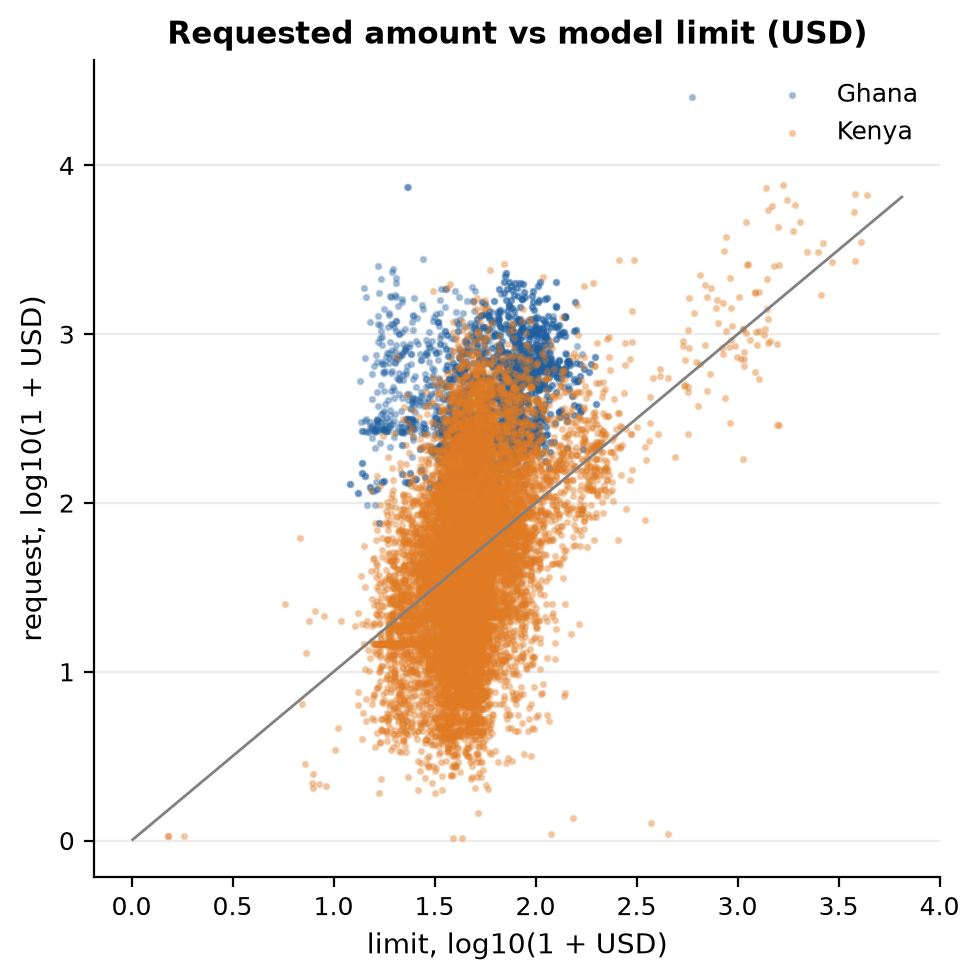
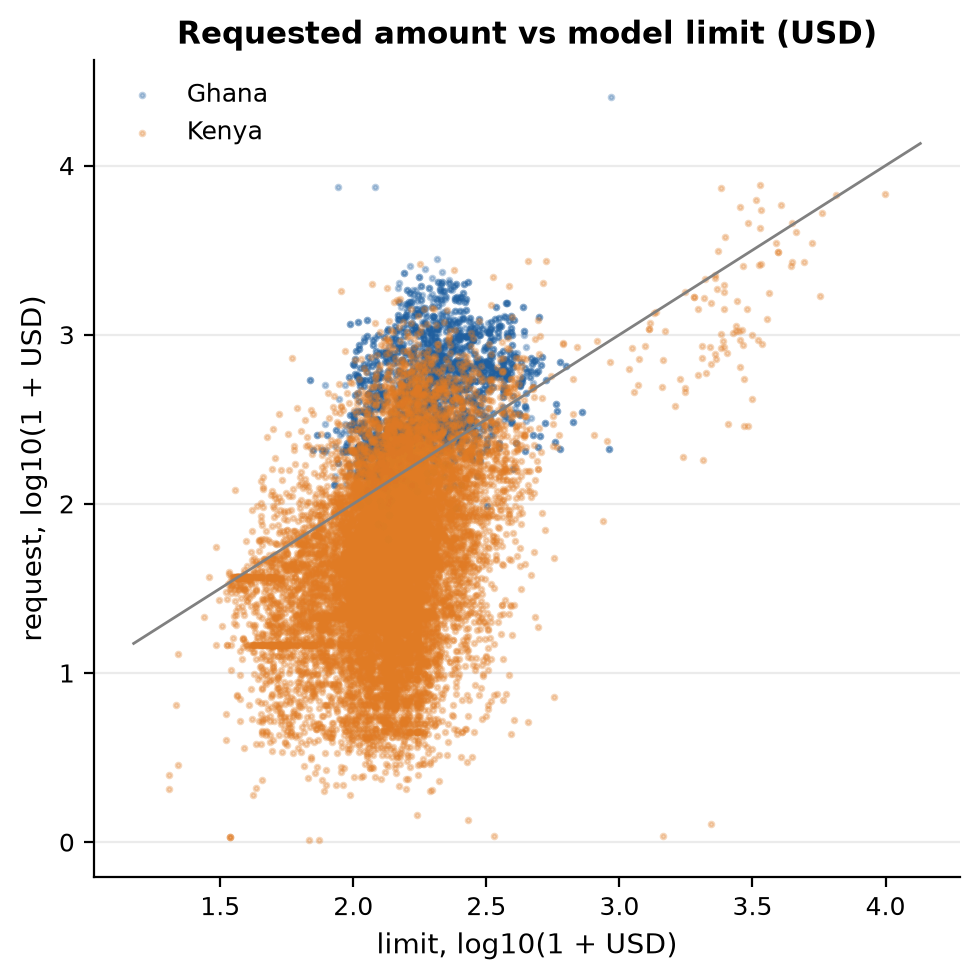
P3: switch limit rule to 85th-quantile LightGBM cap (D-30, #53)

diff --git a/scripts/make_figures.py b/scripts/make_figures.py
@@ -269,12 +269,12 @@ def main() -> None:
     summ.to_csv(C.TABLES / "product_decisions_by_country.csv", index=False)
     reg.add(plot_decision_mix(scores), "app_decision_mix", "8. The product in use",
             "Share of approve / limit / starter / decline on Test applications, by country.",
-            "What the deployed rule would do: in Ghana nothing is fully approved under the typical-amount limit, a sign the Kenyan model does not transfer.")
+            "With the 85th-quantile limit cap (D-30, #53), most Kenyan requests are approved in full (<=25% capped), while Ghana remains mostly capped and 100% flagged for review.")
     reg.add(plot_score_distribution(scores, thr), "app_score_distribution", "8. The product in use",
             "Calibrated P(default) on Test applications, by country, with the threshold.", "Ghana scores sit higher and wider than Kenya's.")
     reg.add(plot_limit_vs_request(scores), "app_limit_vs_request", "8. The product in use",
-            "Requested amount vs model limit (USD) for approved or limited applications.",
-            "The limit model predicts the typical amount, so about half of requests are cut; a cap should be a high quantile (#53).")
+            "Requested amount vs 85th-quantile model limit cap (USD) for approved or limited applications.",
+            "Using LightGBM quantile regression (alpha=0.85, D-30) acts as an upper cap so most good Kenyan borrowers stay under it while extreme requests are still bounded.")
     reasons = scores["top_3_reasons"].dropna().explode().value_counts()
     reg.add(plot_counts(reasons, "Reasons given (1,500 sampled Test applications)", "times given"), "app_reason_frequency",
             "8. The product in use", "How often each plain-language reason appears.",

diff --git a/tests/test_serving.py b/tests/test_serving.py
@@ -158,3 +158,26 @@ def test_borrower_reasons_reword_lender_and_drop_filler() -> None:
     shown = borrower_reasons([REASON_TEMPLATES["duration"][0], lender, FALLBACK_REASON])
     assert lender not in shown and FALLBACK_REASON not in shown
     assert len(shown) == 2 and "product" in shown[1]
+
+
+def test_quantile_limit_cap_exceeds_mean_limit_and_cuts_few_requests(synthetic_features) -> None:
+    """D-30 (#53): an 85th-quantile limit model acts as an upper cap, cutting <=25% of in-distribution requests."""
+    from src.models import build_estimator
+
+    df = synthetic_features
+    num1, cat1 = get_feature_lists("task1")
+    amount_usd = np.expm1(df["log_amount_usd"].to_numpy())
+    scaler = TargetLogScaler().fit(amount_usd)
+    z = scaler.transform(amount_usd)
+
+    mean_pipe = Pipeline([("pre", make_preprocessor("task1")), ("est", build_estimator("lightgbm_reg", "task1"))]).fit(
+        df[num1 + cat1], z
+    )
+    q85_pipe = Pipeline([("pre", make_preprocessor("task1")), ("est", build_estimator("lightgbm_reg_q85", "task1"))]).fit(
+        df[num1 + cat1], z
+    )
+    mean_lim = scaler.inverse_transform(mean_pipe.predict(df[num1 + cat1]))
+    q85_lim = scaler.inverse_transform(q85_pipe.predict(df[num1 + cat1]))
+
+    assert float(np.median(q85_lim)) > float(np.median(mean_lim))
+    assert float((amount_usd > q85_lim).mean()) <= 0.25

diff --git a/src/training/artifacts.py b/src/training/artifacts.py
@@ -22,13 +22,15 @@ REG_ARTIFACT = "task1_reg.joblib"
 def fit_and_save_deployment_artifacts(
     df: pd.DataFrame,
     clf_model: str = "logreg",
-    reg_model: str = "lightgbm_reg",
+    reg_model: str = "lightgbm_reg_q85",
     threshold: float | None = None,
 ) -> dict[str, Path]:
-    """Save a calibrated Task 2 pipeline and a Task 1 pipeline (target in USD) as joblib bundles.
+    """Save a calibrated Task 2 pipeline and a Task 1 limit-cap pipeline (target in USD) as joblib bundles.
 
     Calibration: Platt scaling fitted on out-of-fold (GroupKFold) raw probabilities, so the
     calibrator never sees a score the model made on its own training rows.
+    Limit model: LightGBM 85th-quantile regressor (`lightgbm_reg_q85`, D-30 / #53) so most
+    repaid borrowers stay under the cap instead of cutting half of requests by construction.
     Threshold: from configs/cost_matrix.yaml unless given.
     """
     if clf_model in LIGHTNING_MODELS or reg_model in LIGHTNING_MODELS:

diff --git a/src/models/__init__.py b/src/models/__init__.py
@@ -27,7 +27,7 @@ TASK2_MODELS = (
     "lit_logreg",
     "lit_mlp",
 )
-TASK1_MODELS = ("mean", "ols", "ridge", "lasso", "decision_tree_reg", "lightgbm_reg", "lit_linear")
+TASK1_MODELS = ("mean", "ols", "ridge", "lasso", "decision_tree_reg", "lightgbm_reg", "lightgbm_reg_q85", "lit_linear")
 LIGHTNING_MODELS = ("lit_logreg", "lit_mlp", "lit_linear")
 
 # name -> function(params, pos_weight) returning an unfitted estimator
@@ -47,6 +47,7 @@ _TASK1_BUILDERS = {
     "lasso": linear.lasso,
     "decision_tree_reg": trees.decision_tree_regressor,
     "lightgbm_reg": ensembles.lightgbm_regressor,
+    "lightgbm_reg_q85": ensembles.lightgbm_regressor,
 }
 
 

diff --git a/scripts/train.py b/scripts/train.py
@@ -25,7 +25,7 @@ def parse_args() -> argparse.Namespace:
     p.add_argument("--predict-test", action="store_true", help="also fit on all of Train and predict Test")
     p.add_argument("--save-artifacts", action="store_true", help="save the calibrated scorer bundle")
     p.add_argument("--clf-artifact-model", default="logreg")
-    p.add_argument("--reg-artifact-model", default="lightgbm_reg")
+    p.add_argument("--reg-artifact-model", default="lightgbm_reg_q85")
     return p.parse_args()
 
 

diff --git a/src/models/ensembles.py b/src/models/ensembles.py
@@ -25,4 +25,5 @@ def lightgbm_classifier(params: dict[str, Any], pos_weight: float | None = None)
 
 
 def lightgbm_regressor(params: dict[str, Any], pos_weight: float | None = None) -> LGBMRegressor:
+    """LightGBM regressor for Task 1; supports quantile regression when `objective='quantile'` and `alpha` are set (D-30)."""
     return LGBMRegressor(random_state=C.SEED, verbose=-1, n_jobs=-1, **params)

diff --git a/tests/test_architecture.py b/tests/test_architecture.py
@@ -34,6 +34,7 @@ EXPECTED = {
     ("task1", "lasso"): Lasso,
     ("task1", "decision_tree_reg"): DecisionTreeRegressor,
     ("task1", "lightgbm_reg"): LGBMRegressor,
+    ("task1", "lightgbm_reg_q85"): LGBMRegressor,
 }
 
 

diff --git a/docs/DECISIONS.md b/docs/DECISIONS.md
@@ -33,3 +33,4 @@ Models are only comparable if everyone made the same data decisions. Record each
 | D-27 | Importance weighting for Kenya → Ghana | decided | Do **not** report importance-weighted Kenyan metrics as a Ghana estimate. Report the domain classifier and the pilot plan instead | Effective sample share of the weights is 0.04 without the label-history artefact (0.02 with it): the estimate would rest on ~4% of Kenyan rows | Eugene (P4), 2026-11-17, #23 |
 | D-28 | Team cost matrix: currency and future loans lost | decided, implemented | `configs/cost_matrix.yaml` switches to **cedis** with D-22's measured values (principal 3,002 GHS, fee 3.0%, collection 14.8 GHS, recovery 20%) and **3 future loans lost** per wrongly declined good borrower (sensitivity 1, 3, 6). C_FP 270, C_FN 2,416 GHS, **threshold 0.10**. The scorer bundle, `04` and the scorer tests use it | The product is for Ghana (D-22). After a repaid loan the median customer takes 8 more (5 after a first loan, measured on Train); assuming about 1 in 4 declined good borrowers leave for good gives ~2 later loans + this one. With 1 lost loan, 12% of first-time borrowers are approved; with 6, 70%; 3 is the middle, stated as an assumption for the pilot to measure. Henry's `02` and Bernard's `03` read the config: their committed outputs predate this switch until re-run | Eugene (P4), 2026-11-18; Bernard and Henry to review |
 | D-29 | Deployed models for the scoring service (#51) | decided, implemented | Deploy **Platt-calibrated logistic regression (`logreg`)** for Task 2 (default probability) and **LightGBM (`lightgbm_reg`, to be upgraded to a high-quantile cap in #53)** for Task 1 (loan limit), refitted on the D-28 cedi cost matrix (threshold 0.10) and D-26 starter loan via `python -m scripts.train --save-artifacts --clf-artifact-model logreg --reg-artifact-model lightgbm_reg` | On `fold_group`, `logreg` PR-AUC (0.175, 95% CI [0.154, 0.199]) overlaps `random_forest` (0.203 [0.180, 0.229]) and `lightgbm` (0.194 [0.170, 0.219]); on `temporal` (2023+, honest forecast D-7), `logreg` ROC-AUC (0.633) beats `random_forest` (0.619) and `lightgbm` (0.582). Calibration by tenure is virtually identical for `logreg` and `random_forest` (new borrowers: 18.6% pred vs 21.0% obs, gap −2.4 pp), while `lightgbm` is worse (−6.3 pp); `lit_mlp` (−0.9 pp) is a PyTorch black box incompatible with fast linear reason codes. `logreg` computes exact log-odds reasons in ~9 ms/call vs ~289 ms (`random_forest`) and ~417 ms (`lightgbm`) via TreeSHAP, honours the credit committee's preference for simple transparent models, and aligns with the fairness audit (D-25). For Task 1, trees beat linear models on USD RMSE (`lightgbm_reg` $1,114 vs `ridge` $1,745; temporal R² 0.61 vs 0.27) | Bernard (P3), 2026-11-19, #51 |
+| D-30 | Limit rule: high-quantile cap instead of typical amount (#53) | decided, implemented | Use **LightGBM 85th-quantile regression** (`lightgbm_reg_q85`: `objective="quantile", alpha=0.85` in `configs/models.yaml`) as the deployed Task 1 limit cap in `src/training/artifacts.py` and `scripts/train.py` (keeping mean `lightgbm_reg` for Task 1 point-prediction evaluation) | A mean regressor cuts half of all requests by construction: on `fold_group` OOF, `lightgbm_reg` cut **50.1%** of repaid Kenyan loans (50.7% of defaults) and **48.9%** of Kenyan Test applications (Ghana 86.3% limited, 0% fully approved). Switching to `alpha=0.85` cuts only **15.7%** of repaid Kenyan loans on OOF (vs 19.6% of defaulted loans, capping riskier outliers more often) and reduces Kenyan Test `"limit"` decisions to **14.6%** (83.0% approved in full, well under the ≤25% target), while Ghana gets 6.9% approved, 79.4% limited and 100% flagged for review | Bernard (P3), 2026-11-19, #53 |

diff --git a/docs/PROGRESS.md b/docs/PROGRESS.md
@@ -1,6 +1,6 @@
 # Progress dashboard
 
-**Read this first.** Update it at the end of every work session (2 minutes), then push. Last updated: 2026-11-19 by Bernard (branch `p3/51-choose-deployed-models`).
+**Read this first.** Update it at the end of every work session (2 minutes), then push. Last updated: 2026-11-19 by Bernard (branch `p3/53-quantile-limit-rule`).
 
 Status: ⬜ not started · 🟨 in progress · ✅ done · 🟥 blocked
 
@@ -29,7 +29,7 @@ Status: ⬜ not started · 🟨 in progress · ✅ done · 🟥 blocked
 | B | Calibration over time (#55) | Henry | ✅ pre-2023 calibration under-predicts 2024 risk by half (LogReg 4.5% vs 8.7%); recalibrating on 2023 halves ECE but puts every 2024 applicant above break-even; recalibrate + monthly monitoring (D-24, PR #61) |
 | C | Kenya → Ghana transfer study | Eugene | 🟨 `04` §2 rebuilt (domain classifier in 5 variants, importance weights, scorer on Ghana, pilot plan); in review |
 | D | Model Card, Datasheet, fairness, regulation, Findex | Eugene | 🟨 `04` §3–4 and `docs/audit/` written; in review. Act 843/726 section numbers to confirm |
-| E | Scoring service, reason codes & deployed models (#30, #31, #51) | Bernard | ✅ D-29 decided (`logreg` + `lightgbm_reg`), refitted on D-28 cedi config + D-26 starter loan; latency median 24 ms, p95 35 ms; limit quantile cap next (#53) |
+| E | Scoring service, reason codes, deployed models & quantile cap (#30, #31, #51, #53) | Bernard | ✅ D-29 (`logreg`) + D-30 (`lightgbm_reg_q85` 85th-quantile cap): Kenya Test cut drops 48.9% → 14.6% (15.7% of repaid Train loans cut); latency median 21 ms, p95 26 ms |
 | E | Borrower app over the scorer | Eugene | 🟨 `app/streamlit_app.py` calls `score_application`; shows approve/limit/starter/decline, borrower reasons, credit-team panel (#65, branch `p4/65-borrower-app`, stacked on PR #64) |
 | Final | Report, audit, slides, reflections, AI declaration | all | ⬜ |
 
@@ -48,6 +48,7 @@ Per-issue progress is on GitHub (Roadmap issue #1). Closed on 2026-11-17 with ev
 | 2026-11-17 | Bernard | Restructured `src/` into packages + `scripts/`, `configs/`, `reports/`; fixed scorer bugs (D-18, D-19); restored and completed Henry's `02` (§7–10); ran all 16 models | PR #47 |
 | 2026-11-16 | Bernard | Shared `src/` pipeline, `tests/` CI guardrails, `Makefile`, streamlined README | PR #46 |
 | 2026-11-10 | Henry | Logistic regression (raw + shared + Lightning) and MLP + temporal check | `notebooks/02_classification.ipynb`, `docs/learning/`, PRs #40, #41 |
+| 2026-11-19 | Bernard | High-quantile limit cap (`lightgbm_reg_q85`, alpha=0.85, D-30): Kenya Test cut 48.9% → 14.6%, repaid Train cut 50.1% → 15.7%; tests, figures & latency (median 21 ms) updated (#53) | `configs/models.yaml`, `src/models/`, `src/training/artifacts.py`, `tests/`, `reports/` |
 | 2026-11-19 | Bernard | Deployed model decision (D-29: calibrated `logreg` + `lightgbm_reg`), refitted scorer on D-28 cedi config + D-26 starter loan, regenerated `eval`, 35 `figures`, `score` (median 24 ms, p95 35 ms) (#51) | `docs/DECISIONS.md`, `reports/`, `scripts/make_figures.py` |
 | 2026-11-19 | Bernard | Linear regression derivation (Gaussian MLE → normal equations → Ridge MAP) + 5 numerical tests vs scikit-learn & PyTorch (#32) | `docs/derivations/linear.md`, `tests/test_linear_derivation.py` |
 | 2026-11-19 | Perfect | Report section for #34: data, leakage audit, time-safe features, three validation schemes with the inflation numbers, baseline/kNN/SVM, limitations; two deliberate-bug runs re-confirm `validate()` fires | `docs/report/p1_data_section.md`, branch `p1/34-report-data-section` |

diff --git a/docs/WORKLOG.md b/docs/WORKLOG.md
@@ -9,6 +9,11 @@ Add an entry at the **top** at the end of each session, 5–10 lines. Link to no
 
 ---
 
+## 2026-11-19 (late night) · Bernard (P3) · `p3/53-quantile-limit-rule` (#53)
+**Did:** Registered `lightgbm_reg_q85` (`objective="quantile", alpha=0.85`) in `configs/models.yaml`, `src/models/__init__.py`, and `src/models/ensembles.py`; switched `fit_and_save_deployment_artifacts` (`src/training/artifacts.py`) and `scripts/train.py` to use it as the deployed limit cap (D-30); added unit tests in `tests/test_architecture.py` and `tests/test_serving.py`; refitted the bundle and regenerated `make figures` and `make score`.
+**Found:** On `fold_group` OOF, `lightgbm_reg_q85` cuts only **15.7%** of repaid Kenyan loans (vs 50.1% under mean regression, and 19.6% of defaulted loans). On Test (`reports/tables/product_decisions_by_country.csv`), Kenyan `"limit"` drops from **48.9% → 14.6%** (83.0% approved in full; ≤25% acceptance target met), Ghana gets 6.9% approved / 79.4% limited / 100% flagged for review, and 1,000-call latency is median 21 ms, p95 26 ms.
+**Next:** Add Task 2 pruned `decision_tree` section to `03_regression.ipynb` and re-execute (#17), run feature-group ablation (#52), and write plain-language interpretation (#22).
+
 ## 2026-11-19 (late night) · Bernard (P3) · `p3/51-choose-deployed-models` (#51)
 **Did:** Recorded **D-29** in `docs/DECISIONS.md` choosing **Platt-calibrated logistic regression (`logreg`)** for Task 2 and **LightGBM (`lightgbm_reg`)** for Task 1. Refitted the scoring bundle on the D-28 cedi cost matrix (threshold 0.1006) and D-26 starter loan (`python -m scripts.train --save-artifacts --clf-artifact-model logreg --reg-artifact-model lightgbm_reg`), updated `scripts/make_figures.py` to record `starter` in `product_decisions_by_country.csv`, and regenerated `make eval`, `make figures`, and `make score`.
 **Found:** `logreg` overlaps `random_forest` and `lightgbm` on GroupKFold PR-AUC 95% CIs (0.175 [0.154, 0.199] vs 0.203 / 0.194), beats both on temporal 2023+ ROC-AUC (0.633 vs 0.619 / 0.582), matches `random_forest` on new-borrower calibration (−2.4 pp gap; `lightgbm` is −6.3 pp), and runs ~31× faster with exact linear reason codes (median 24 ms, p95 35 ms over 1,000 calls vs ~289 ms for RF TreeSHAP). All `reports/tables/` and 35 figures now reflect the D-28 cedi cost matrix.

diff --git a/reports/FIGURES.md b/reports/FIGURES.md
@@ -69,9 +69,9 @@ Generated by `python -m scripts.make_figures` (and `scripts/make_eda_report.py` 
 
 | Figure | What it shows | Claim it defends |
 | --- | --- | --- |
-| [`app_decision_mix`](figures/app_decision_mix.png) | Share of approve / limit / starter / decline on Test applications, by country. | What the deployed rule would do: in Ghana nothing is fully approved under the typical-amount limit, a sign the Kenyan model does not transfer. |
+| [`app_decision_mix`](figures/app_decision_mix.png) | Share of approve / limit / starter / decline on Test applications, by country. | With the 85th-quantile limit cap (D-30, #53), most Kenyan requests are approved in full (<=25% capped), while Ghana remains mostly capped and 100% flagged for review. |
 | [`app_score_distribution`](figures/app_score_distribution.png) | Calibrated P(default) on Test applications, by country, with the threshold. | Ghana scores sit higher and wider than Kenya's. |
-| [`app_limit_vs_request`](figures/app_limit_vs_request.png) | Requested amount vs model limit (USD) for approved or limited applications. | The limit model predicts the typical amount, so about half of requests are cut; a cap should be a high quantile (#53). |
+| [`app_limit_vs_request`](figures/app_limit_vs_request.png) | Requested amount vs 85th-quantile model limit cap (USD) for approved or limited applications. | Using LightGBM quantile regression (alpha=0.85, D-30) acts as an upper cap so most good Kenyan borrowers stay under it while extreme requests are still bounded. |
 | [`app_reason_frequency`](figures/app_reason_frequency.png) | How often each plain-language reason appears. | Reasons are about the borrower's own record and product; calendar and internal fields never appear. |
 | [`app_review_flags`](figures/app_review_flags.png) | Why applications are sent to a person. | Every Ghana application is flagged: the system says when it is outside its evidence. |
-| [`app_latency`](figures/app_latency.png) | Time per scored application over 1,000 calls (median 22 ms, p95 26 ms). | Fast enough for a mobile-money flow (brief Part E: latency). |
+| [`app_latency`](figures/app_latency.png) | Time per scored application over 1,000 calls (median 19 ms, p95 22 ms). | Fast enough for a mobile-money flow (brief Part E: latency). |

diff --git a/docs/AI_USE_LOG.md b/docs/AI_USE_LOG.md
@@ -22,3 +22,4 @@ The report needs an AI-use declaration, and each of us must be able to explain a
 | 2026-11-19 | Perfect | Claude Code | Part A preparation: loan timeline figure and its script, `docs/PART_A_SESSION.md`, caveats on D-3 and D-5; drafted P1's report section `docs/report/p1_data_section.md` (#34) | Every number in the report section is traced to a committed table or the EDA; nothing newly estimated. _Perfect to fill in: what you changed in your own words_ | _Perfect to confirm_ |
 | 2026-11-19 | Bernard | Antigravity AI | Drafted `docs/derivations/linear.md` (Gaussian MLE → OLS → normal equations → Ridge MAP) and `tests/test_linear_derivation.py` (#32) | Verified all 5 numerical tests against scikit-learn `LinearRegression`/`Ridge` and PyTorch autograd, `ruff`, `pytest`, and `make acceptance ISSUE=32`; verified Task 1 numbers against `reports/tables/task1_model_summary.csv` | _Bernard to confirm_ |
 | 2026-11-19 | Bernard | Antigravity AI | Compared Task 2 candidates on tenure calibration and TreeSHAP vs linear latency, recorded D-29 (#51), refitted scorer bundle on D-28 cedi config, regenerated `eval`, `figures`, and `score` | Verified GroupKFold CIs, temporal metrics, tenure calibration gaps, and 1,000-call latency (median 24 ms, p95 35 ms); ran `ruff`, `pytest`, and `make acceptance ISSUE=51` | _Bernard to confirm_ |
+| 2026-11-19 | Bernard | Antigravity AI | Benchmarked LightGBM quantile caps (alpha 0.80/0.85/0.90), registered `lightgbm_reg_q85`, switched scorer limit model (D-30, #53), added unit tests, regenerated figures and latency | Verified Train OOF repaid cut share (15.7% vs 50.1%), Kenya Test limit share (14.6% ≤ 25%), `ruff`, 57 unit tests, and `make acceptance ISSUE=53` | _Bernard to confirm_ |
